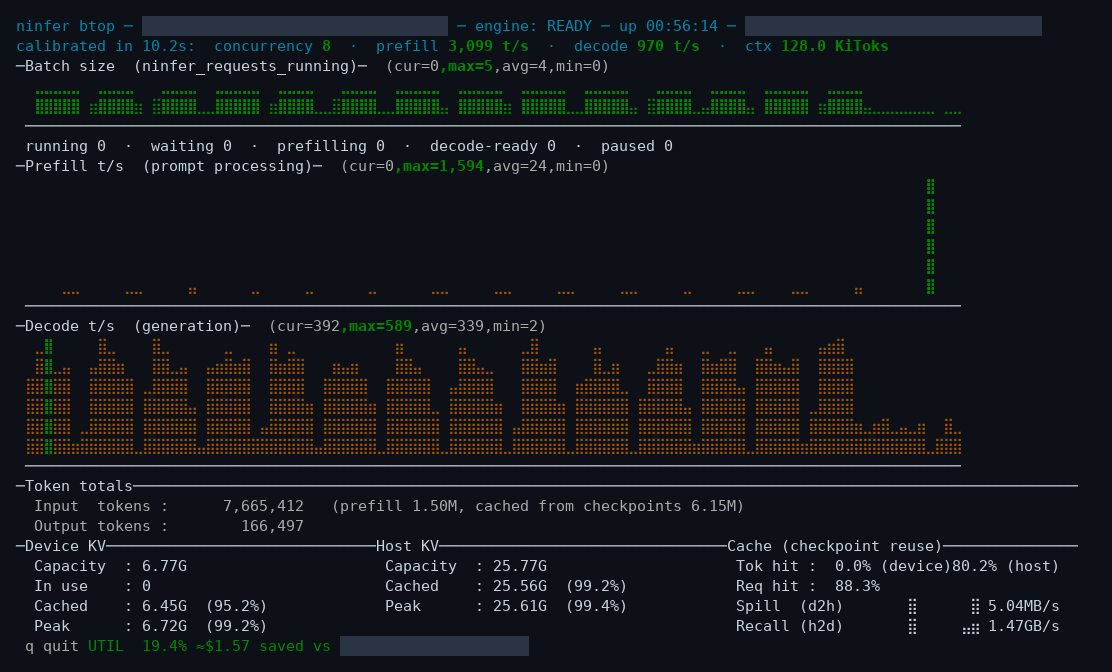
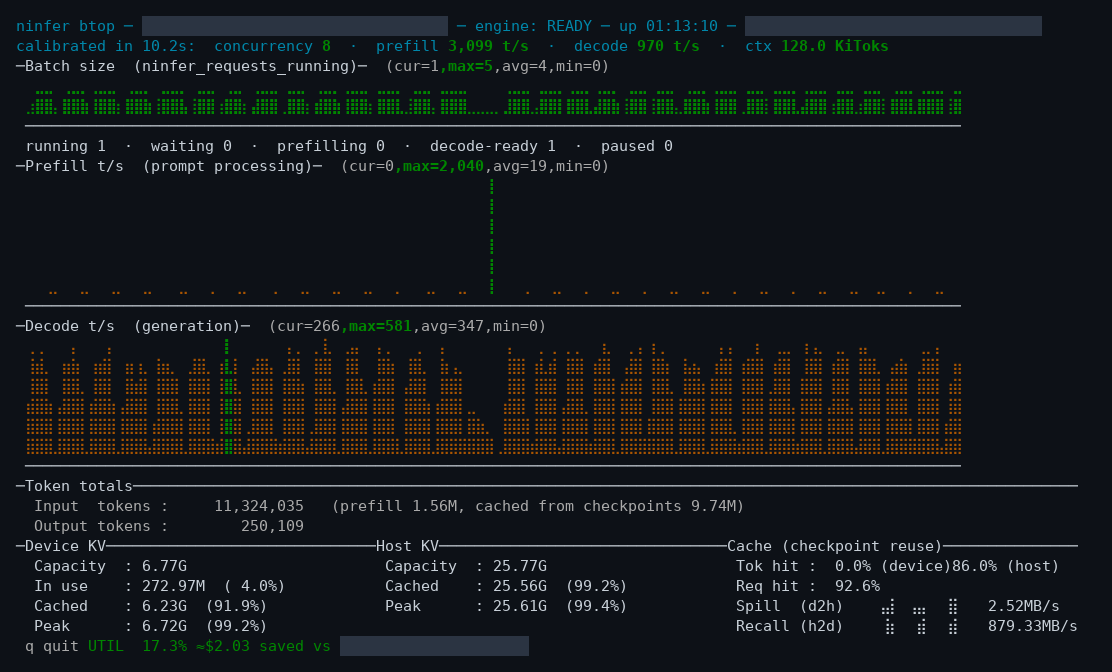
bar graphs: double-width braille characters - one sample per single dot line
dots_to_chars(dots, rows) now sits between the dot array and the plot:
each braille character is double-wide and holds two adjacent samples -
the newer sample in the left dot column, the older in the right -
resolved through the full 5x5 btop glyph table, so a character may be
a rising/falling glyph instead of a flat column of dots. Odd-length
windows are padded with a trailing zero.

This not only makes the graphs look nicer (btop-style glyph texture,
sharp single-dot-line spikes), it also doubles the number of samples
displayed in the same area: buffers are now 2x the column count
(2*gwidth main, Graph(26) xfer sparklines = 13-char width, ~13 s
window).

Motion: each poll appends one sample (half a character); the newer
sample always occupies the left dot line of its character, so every
dot line shifts by exactly half a character per poll - the pairing
never flips, the motion can never jump. Peak highlight: a character
is painted peak when either of its samples is the window max.

draw_bar_graph and _xfer_row read the window newest-first (the deque
stores oldest->newest); the xfer sparkline goes through the same
pipeline. 52/52 unit tests (H3/H4 buffers doubled); bar_graph_test
staircase = ramp of rising glyphs; README and -i help reworded;
hero re-captured.

diff --git a/ninfer_btop.py b/ninfer_btop.py
@@ -11,11 +11,12 @@ Polls the engine's Prometheus metrics endpoint and renders:
     panel is 1 or 2 chars high)
   * scrolling bar graph: prefill t/s (rate of ninfer_prefill_tokens_total)
   * scrolling bar graph: decode t/s  (rate of ninfer_generation_tokens_total)
-    (btop's braille glyphs: one sample per character - a flat column of
-    dots, never a rising/falling glyph - and four vertical levels per text
-    line; the graphs scroll left to right: the newest sample enters at the
-    left edge, and each poll shifts a graph by exactly one character, so
-    the motion can never jump)
+    (btop's braille glyphs: two samples per character - each sample is a
+    single vertical dot line, the newer sample in the left dot column, so
+    a character may be a rising/falling glyph - and four vertical levels
+    per text line; the graphs scroll left to right: the newest sample
+    enters at the left edge, and each poll shifts every dot line by
+    exactly half a character, so the motion can never jump)
   * totals: input (prompt) / output (generation) tokens
   * Device KV / Host KV / Cache (checkpoint reuse): three side-by-side
     panels sharing one title row (btop-style). The KV columns show the
@@ -668,9 +669,10 @@ class Engine:
 
 class Graph:
     """Scrolling bar history. The newest sample sits at the left edge: bars
-    enter on the left and scroll out on the right. One sample per drawn
-    character, so a redraw after each poll shifts the graph by exactly one
-    character - it can never jump.
+    enter on the left and scroll out on the right. Two samples per drawn
+    character (the newer in the left dot line), so a redraw after each poll
+    shifts every dot line by exactly half a character - it can never jump,
+    and the buffer holds twice as many samples as the drawn column count.
 
     `pinned` graphs (the batch graph) map their samples against the plot's
     total dot count (4*rows, from the panel height): one dot level is
@@ -888,10 +890,10 @@ def draw_triple_panel(scr, y, left_title, mid_title, right_title, c, width):
 
 def _xfer_row(label, graph, width=13):
     """One cache-panel transfer row: a one-row braille sparkline over the
-    graph's window (the same dots as the main bar graphs, one sample per
-    character - a flat column of dots, never a rising/falling glyph),
-    autoscaled to its own window peak, with that peak as the side label for
-    scale. Unlike a one-poll bar, a sub-frame transfer burst (a few-MS
+    graph's window (the same dots and double-wide characters as the main
+    bar graphs - each character holds two adjacent samples, the newer in
+    the left dot line), autoscaled to its own window peak, with that peak
+    as the side label for scale. Unlike a one-poll bar, a sub-frame transfer burst (a few-MS
     recall DMA) stays visible for the whole graph window. The row is label
     + width + 1 + the peak label, which at 120 cols fits the ⅓-width cache
     column with the longest label (…MB/s, 10 chars). Like the main graphs
@@ -900,15 +902,14 @@ def _xfer_row(label, graph, width=13):
     if graph is None:
         return label + " " * (width + 1) + "—"
     hist = list(graph.hist)
-    n = min(width, len(hist))
+    n = min(2 * width, len(hist))
+    hist = hist[-n:]  # the newest n samples (the row reads newest first)
     dots = compute_dots(hist, total_dots=4)  # autoscale to its own window peak
     vals = [v for v in hist if v is not None]
     mx = max(vals) if vals else 0.0
-    cells = []
-    for col in range(n):
-        i = n - 1 - col  # leftmost character = newest sample
-        cells.append(BRAILLE[dots[i]][dots[i]])  # flat top: both dot columns at the same level
-    spark = "".join(cells).ljust(width)  # partial window grows from the left edge
+    if n % 2:
+        dots.append(0)
+    spark = "".join(dots_to_chars(dots[::-1], 1)[0]).ljust(width)  # partial window grows from the left
     return label + spark + " " + _rate_val(mx)
 
 
@@ -964,30 +965,62 @@ def compute_dots(samples, max=None, total_dots=4):
             for v in samples]
 
 
+def dots_to_chars(dots, rows):
+    """The braille characters for a `rows`-row plot from a dots array.
+
+    One sample per single dot line: a braille character is double-wide and
+    holds the dot lines of two adjacent samples - the newer sample in the
+    left dot column, the older in the right (so a character may be a
+    rising/falling glyph). An odd-length array is padded with a trailing
+    zero. Returns a rows x len//2 grid of 5x5 glyphs (indexed
+    [left level][right level]); grid row 0 is the top of the plot, so a
+    sample fills up from the last row. A sample with d dots occupies dots
+    [(rows-1-r)*4, (rows-r)*4) of row r's band."""
+    if len(dots) % 2:
+        dots = [*dots, 0]
+    grid = []
+    for r in range(rows):
+        band = (rows - 1 - r) * 4  # first dot of this row's band
+        line = []
+        for c in range(len(dots) // 2):
+            l = min(4, max(0, dots[2 * c] - band))
+            h = min(4, max(0, dots[2 * c + 1] - band))
+            line.append(BRAILLE[l][h])
+        grid.append(line)
+    return grid
+
+
 def draw_bar_graph(scr, y, graph: Graph, rows, width, key, c):
     hist_vals = list(graph.hist)
     dots = graph.dots(rows)  # one dot height per sample
-    plot_w = min(width - 14, len(hist_vals))  # one sample per braille char
+    # two samples per braille character: the plot is half the buffer wide;
+    # the buffer holds oldest -> newest, but the newest sample is on the
+    # left, so the window is read newest first
+    n = min(len(hist_vals), 2 * (width - 14))
+    vals = hist_vals[-n:][::-1]
+    grid = dots_to_chars(dots[-n:][::-1], rows)
+    plot_w = min(width - 14, (n + 1) // 2)
     peak_v = max((v for v in hist_vals if v is not None), default=0.0)
     base_attr = curses.color_pair(c.get(key, 0))
     # window-max samples are highlighted (bold peak color, or reverse video
-    # when the terminal has no colors)
+    # when the terminal has no colors); a glyph holds two dot lines, so a
+    # character is painted peak when either of its samples is the window max
     peak_attr = (curses.color_pair(c["peak"]) | curses.A_BOLD) if "peak" in c else curses.A_REVERSE
     # the newest sample is on the left: the leftmost character holds it and
-    # the graph scrolls left to right (bars enter left, exit right); a
-    # partial (not-yet-full) window grows from the left edge
+    # the second-newest sample, and the graph scrolls left to right (bars
+    # enter left, exit right); the newer sample always sits in the left dot
+    # line of its character, so each poll shifts every dot line by exactly
+    # half a character - the pairing never flips, it cannot jump; a partial
+    # (not-yet-full) window grows from the left edge
     for col in range(plot_w):
-        i = plot_w - 1 - col  # leftmost character = newest sample
-        v = hist_vals[i]
-        d = dots[i]
-        attr = peak_attr if (peak_v > 0 and v == peak_v) else base_attr
-        # a sample fills from the baseline up: text row y + r (r = 0 is the
-        # top of the plot) covers dot band [(rows-1-r)*4, (rows-r)*4)
+        pair = vals[2 * col:2 * col + 2]  # pair's samples, newer first
+        attr = (peak_attr if (peak_v > 0
+                              and any(v == peak_v for v in pair if v is not None))
+                else base_attr)
         for r in range(rows):
-            l = min(4, d - (rows - 1 - r) * 4)
-            if l <= 0:
+            ch = grid[r][col]
+            if ch == " ":
                 continue
-            ch = BRAILLE[l][l]  # flat top: both dot columns at the same level
             try:
                 scr.addstr(y + r, 1 + col, ch, attr)
             except curses.error:
@@ -1258,12 +1291,12 @@ def main_loop(stdscr, args):
 
     max_y, max_x = stdscr.getmaxyx()
     gwidth = max(20, max_x - 16)
-    # one sample per drawn character: histories are the column count
-    graphs = {"batch": Graph(gwidth, pinned=True),  # pinned: scale = plot's dot count (1 dot = 1 request)
-              "toks": Graph(gwidth), "prefill": Graph(gwidth),
-              # transfer sparklines: fixed 13-char width (13 samples ~ 6.5 s
+    # two samples per drawn character: histories are twice the column count
+    graphs = {"batch": Graph(2 * gwidth, pinned=True),  # pinned: scale = plot's dot count (1 dot = 1 request)
+              "toks": Graph(2 * gwidth), "prefill": Graph(2 * gwidth),
+              # transfer sparklines: fixed 13-char width (26 samples ~ 13 s
               # at the default 500 ms poll), independent of terminal width
-              "xfer_d2h": Graph(13), "xfer_h2d": Graph(13)}
+              "xfer_d2h": Graph(26), "xfer_h2d": Graph(26)}
     interval = args.interval / 1000.0
     eng = Engine(args.url, interval, args.pricing_rates, label=args.pricing_model)
     last_poll = 0.0
@@ -1271,9 +1304,10 @@ def main_loop(stdscr, args):
 
     while running:
         now = time.time()
-        # one sample per character: each poll appends exactly one character,
-        # so redrawing after every poll shifts the graph by exactly one
-        # character - there is no pair phase to flip, it cannot jump
+        # each poll appends exactly one sample (half a character); the newer
+        # sample always occupies the left dot line of its character, so a
+        # redraw after every poll shifts every dot line by exactly half a
+        # character - the pairing never flips, the motion cannot jump
         if now - last_poll >= interval:
             last_poll = now
             s = eng.poll()
@@ -1318,7 +1352,7 @@ def main():
     ap.add_argument("--url", required=True, help="metrics endpoint (required, e.g. http://host:port/metrics)")
     ap.add_argument("-i", "--interval", type=int, default=500,
                 help="poll interval in ms (default 500); each poll shifts the "
-                     "bar graphs by exactly one character")
+                     "bar graphs by half a character (one dot line)")
     ap.add_argument("--text", action="store_true", help="one-shot plain-text stats, no TUI")
     ap.add_argument("--re-calib", action="store_true",
                     help="drop the ~/.ninfer_btop.json calibration cache and "

diff --git a/bar_graph_test.py b/bar_graph_test.py
@@ -7,12 +7,13 @@ compute_dots and draw_bar_graph code from ninfer_btop.py, so what you
 see is exactly what the TUI renders.
 
 Expect:
-  * every bar fills UP from the baseline (never down from the top)
+  * every dot line fills UP from the baseline (never down from the top)
   * the staircase ascends left -> right (min on the left = newest, max on
-    the right = oldest); the rightmost column holds the window max, so it
+    the right = oldest); the rightmost pair holds the window max, so it
     is painted with the peak highlight
-  * every character is a flat column of dots (one sample per character,
-    both dot columns at the same level): four dot levels per text row
+  * each braille character holds two adjacent samples (the newer in the
+    left dot line) - one single dot line per sample - so the slope is
+    drawn with rising/falling glyphs: four dot levels per text row
 
 Run:   python3 bar_graph_test.py            (real terminal; any key quits)
        python3 bar_graph_test.py --text     (plain stdout preview, piped)
@@ -74,20 +75,13 @@ def run_curses():
 
 
 def run_text():
-    """Plain stdout preview using the same dot math as the curses path."""
+    """Plain stdout preview using the same character math as the curses
+    path."""
     rows = 12
     g = make_staircase(rows)
-    hist = list(g.hist)
-    plot_w = len(hist)
-    dots = g.dots(rows)
-    out = []
-    for r in range(rows):  # r = 0 is the top row, as in draw_bar_graph
-        line = []
-        for col in range(plot_w):
-            i = plot_w - 1 - col  # leftmost character = newest sample
-            l = min(4, dots[i] - (rows - 1 - r) * 4)
-            line.append(nb.BRAILLE[l][l] if l > 0 else " ")
-        out.append("".join(line))
+    plot_w = (len(list(g.hist)) + 1) // 2
+    grid = nb.dots_to_chars(g.dots(rows)[::-1], rows)  # newest sample on the left
+    out = ["".join(line) for line in grid]
     out.append("─" * plot_w)
     print("\n".join(out))
 

diff --git a/test_ninfer_btop.py b/test_ninfer_btop.py
@@ -591,10 +591,10 @@ class TestXferSpillRecall(Base):
         eng.m = {"ninfer_engine_ready": 1.0}
         eng.last_frame = s
         eng.start_time = None
-        d2h = nb.Graph(13)
+        d2h = nb.Graph(26)
         for v in [0.0] * 10 + [200.0] * 4 + [0.0] * 12:
             d2h.add(v)
-        h2d = nb.Graph(13)
+        h2d = nb.Graph(26)
         for v in [0.0] * 24 + [30.0, 30.0]:
             h2d.add(v)
         graphs = {k: nb.Graph(60) for k in ("batch", "toks", "prefill")}
@@ -618,13 +618,13 @@ class TestXferSpillRecall(Base):
 
     def test_H4_sparkline_autoscale_and_empty(self):
         # all-zero window: blank sparkline, 0B/s label
-        g = nb.Graph(13)
+        g = nb.Graph(26)
         for _ in range(26):
             g.add(0.0)
         self.assertEqual(nb._xfer_row("  X  ", g),
                          "  X  " + " " * 13 + " " + "0B/s")
         # a burst autoscales against its own window peak, not a shared one
-        g2 = nb.Graph(13)
+        g2 = nb.Graph(26)
         for v in [0.0] * 11 + [5.0] * 4 + [0.0] * 11:
             g2.add(v)
         row = nb._xfer_row("  X  ", g2)

diff --git a/README.md b/README.md
@@ -17,11 +17,13 @@ Polls the engine's Prometheus `/metrics` endpoint and renders:
 - scrolling bar graph: **decode t/s** (inter-poll rate of `ninfer_generation_tokens_total`)
   (The engine publishes stats after every prefill/decode step, so both track live phase.)
   The graphs scroll left to right (the newest sample enters at the left edge and bars
-  exit on the right — deliberately unlike btop). Each braille character holds exactly
-  one sample, drawn as a flat column of dots (never a rising/falling glyph), so each
-  poll shifts a graph by exactly one character — the motion can never jump. Each
-  sample maps to an integer dot height (rounded up, so any non-zero sample draws at
-  least one dot); the prefill/decode graphs autoscale to their own window peak.
+  exit on the right — deliberately unlike btop). Each braille character holds two
+  adjacent samples — each sample is a single vertical dot line, the newer sample in
+  the left dot column, so a character may be a rising/falling glyph. Each poll
+  appends one sample and shifts every dot line by exactly half a character (one full
+  character per two polls) — the motion can never jump. Each sample maps to an
+  integer dot height (rounded up, so any non-zero sample draws at least one dot);
+  the prefill/decode graphs autoscale to their own window peak.
 - token totals: input (prompt) / output (generation)
 - Device KV ∥ Host KV ∥ Cache (checkpoint reuse) — three panels side by side
   on one shared title row plus 4 content rows (btop-style). The two KV
@@ -47,7 +49,7 @@ Polls the engine's Prometheus `/metrics` endpoint and renders:
   "Recall (h2d)" (host→device), read per-direction from
   `ninfer_context_transfer_bytes_total` (`direction="d2h"` / `"h2d"`). Each
   sparkline keeps ~6.5 s of history, autoscales to its own window peak
-  (shown as the side label for scale), and uses the same braille dots as the
+  (shown as the side label for scale), and uses the same braille dots and double-wide characters as the
   main graphs — so a few-millisecond recall burst that a one-poll bar would
   miss stays visible for the whole window, and host-tier shedding vs re-use
   is visible at a glance.
